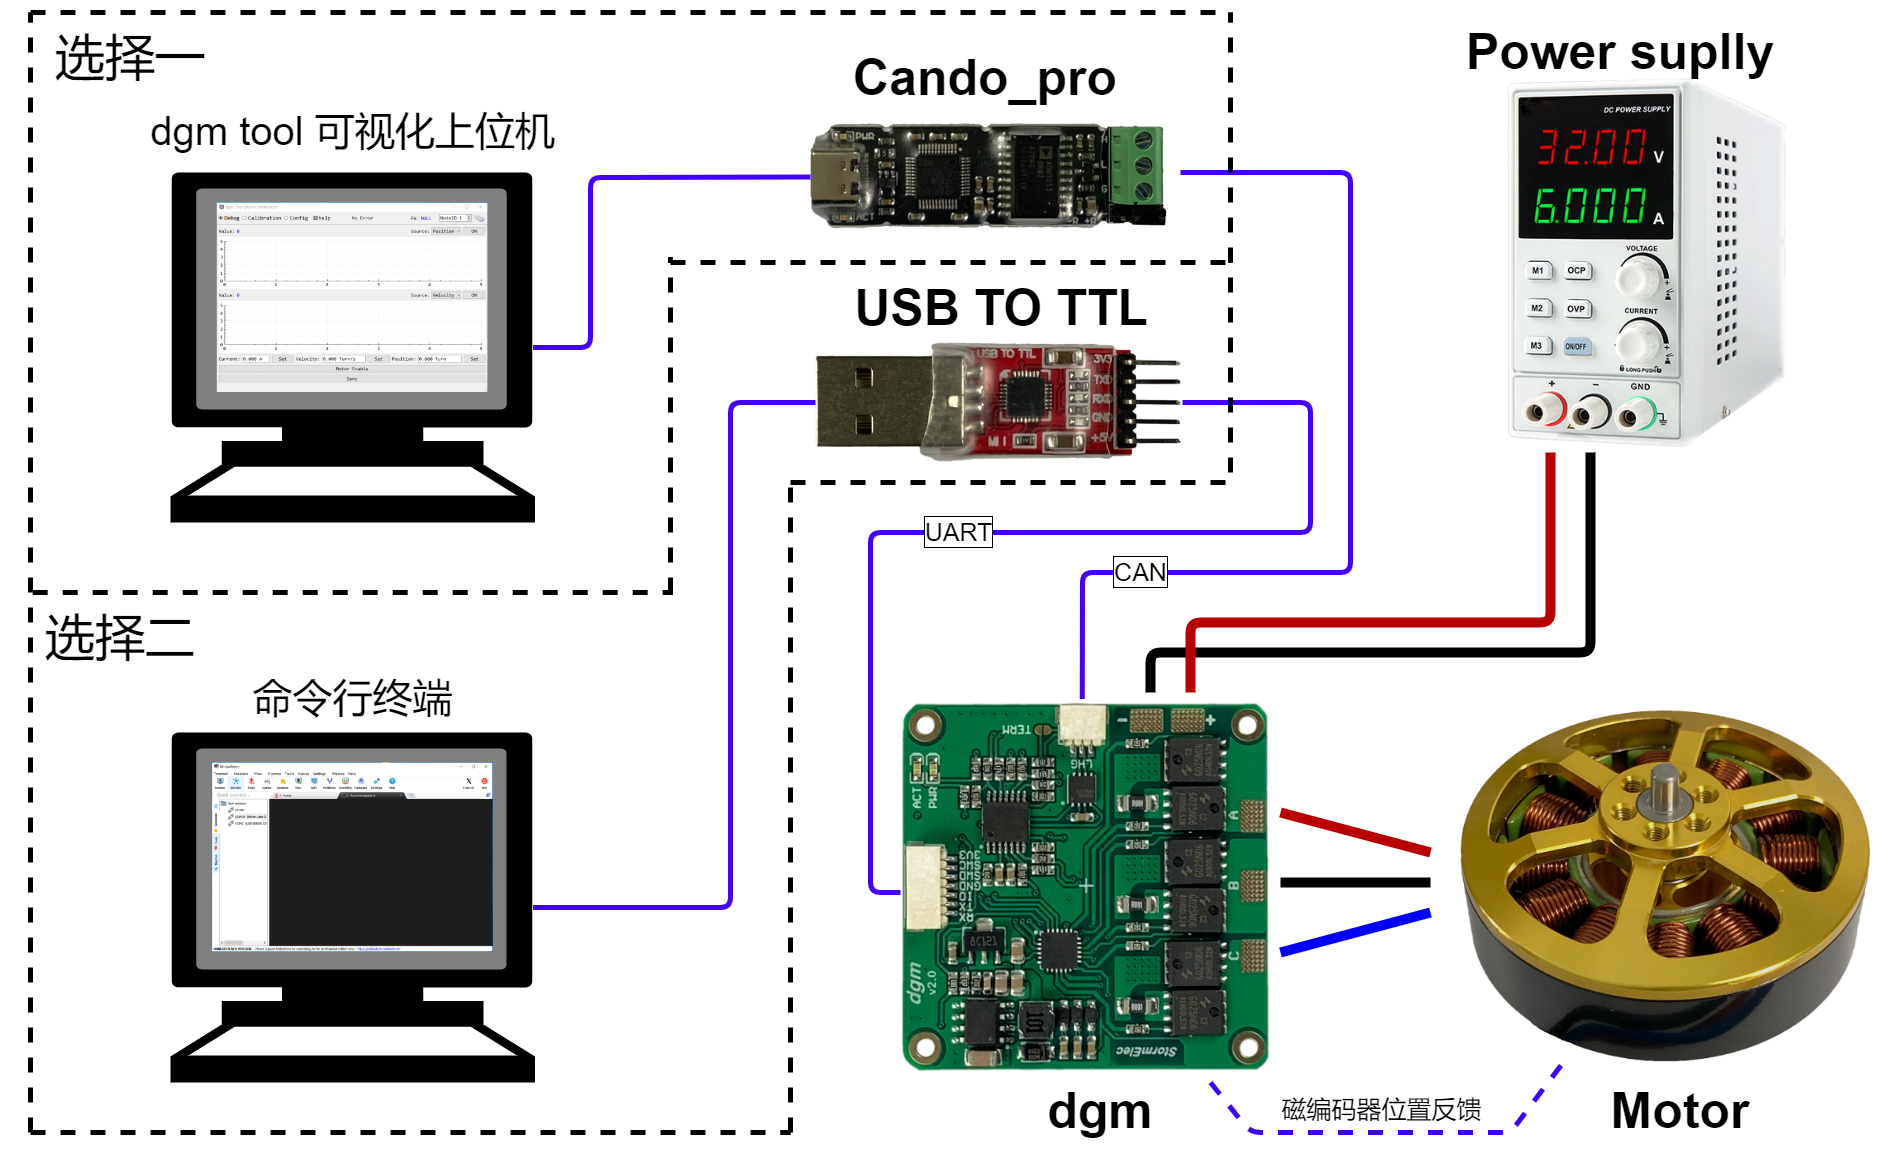
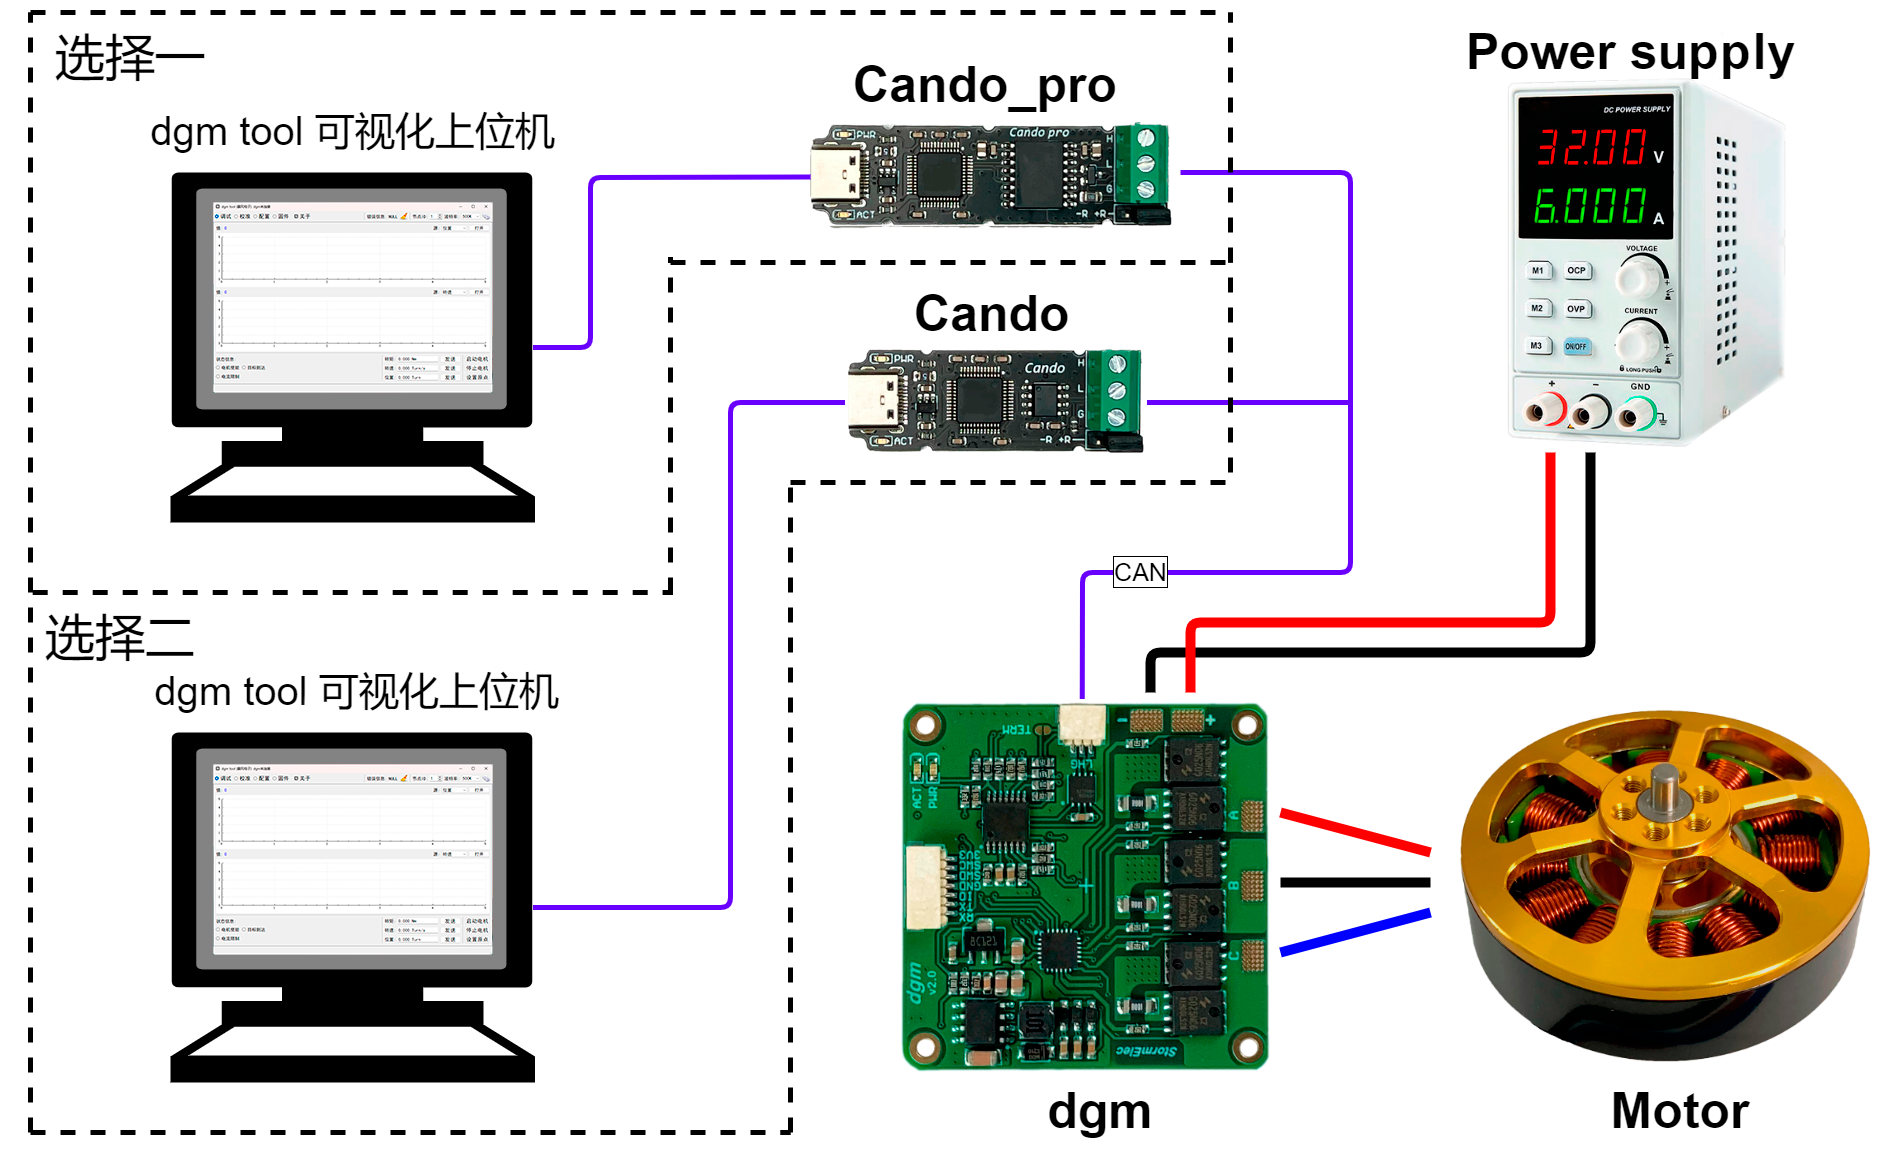
update readme.md

diff --git a/README.md b/README.md
@@ -1,11 +1,26 @@
-# dgm 电机驱动器简介
+
+
+# 仓库文件结构
+
+- [dgm_v1_2](https://github.com/codenocold/dgm/tree/main/dgm_v1_2)：v1.2 硬件版本相关资料(已不再更新)
+
+- [dgm_v1_3](https://github.com/codenocold/dgm/tree/main/dgm_v1_3)：v1.3 硬件版本相关资料(已不再更新)
+- [dgm_v2_0](https://github.com/codenocold/dgm/tree/main/dgm_v2_0)：v2.0 硬件版本相关资料
+  - [Firmware_app](https://github.com/codenocold/dgm/tree/main/dgm_v2_0/Firmware_app)：dgm驱动器固件源码
+  - [Firmware_boot](https://github.com/codenocold/dgm/tree/main/dgm_v2_0/Firmware_boot)：dgm驱动器boot源码
+  - [Hardware](https://github.com/codenocold/dgm/tree/main/dgm_v2_0/Hardware)：电路原理图，3D模型，尺寸图等
+  - [dgm_tool](https://github.com/codenocold/dgm/tree/main/dgm_v2_0/dgm_tool)：可视化调试软件
+- [dgm电机驱动器用户手册_版本C.pdf](https://github.com/codenocold/dgm/blob/main/dgm_v2_0/dgm电机驱动器用户手册_版本C.pdf)：用户使用手册
+
+#  dgm电机驱动器简介
+
+**作者：**codenocold@qq.com/codenocold@gmail.com
 
 **![](./img/dgm_black_3d.jpg)**
 
-**dgm 驱动器是一款高度集成、高效率、高功率密度、简单易用的无刷马达驱动器 (固件代码开源)。该驱动器包含必要的调试和数字通讯接口(UART、CAN总线)。**
+**dgm 驱动器是一款高度集成、高效率、高功率密度、简单易用的无刷马达驱动器 (固件代码开源)。**
 
 ## 主要特点
-
 - **超小的尺寸，长4 cm 宽 4 cm。**
 - **支持宽电压范围供电(12V ~ 50V)。**
 - **高达 95% 的工作效率。**
@@ -13,13 +28,13 @@
 - **采用 Cortex-M4 带硬件浮点运算器主控。**
 - **采用 SVPWM 控制方式。**
 - **高达 20 KHz 的电流、转速、位置控制频率。**
-- **基于 12bit ADC 三相电流检测，相电流测量范围 -45~+45A，满量程分辨率 22mA。**
+- **基于 12bit ADC 三相电流检测，相电流测量范围 -50~+50A，满量程分辨率 22mA。**
 - **板载一颗分辨率高达 18bit 绝对值磁编码器芯片，实现精确位置控制，无需每次上电校准电机编码器。**
 - **支持磁编码器和感应磁铁同心度偏移补偿。**
 - **支持马达齿槽转矩脉动补偿。**
 - **支持自动测量电机相关参数并根据电机参数生成电流环控制增益。**
-- **该驱动器可以使用UART或CAN总线进行配置和控制。**
-- **可以使用配套的 dgm_tool 可视化调试软件轻松配置和调试。**
+- **使用CAN总线进行配置、控制、固件升级。**
+- **可以使用配套的 dgm tool 可视化调试软件轻松配置和调试。**
 
 ## 典型应用
 
@@ -32,23 +47,23 @@
 
 ## 关键参数
 
-|   **关键参数**   | **单位** |                    **参数**                    |
-| :--------------: | :------: | :--------------------------------------------: |
-|   **输入电压**   |  **V**   |                   **12~50**                    |
-|  **持续相电流**  |  **A**   |              **30A @ 60 摄氏度**               |
-|  **峰值相电流**  |  **A**   |                 **60A @ 1 秒**                 |
-|   **PWM频率**    | **kHz**  |                     **20**                     |
-|   **待机功耗**   |  **W**   |                **0.72W @ 24V**                 |
-| **支持电机类型** |          |              **三相无刷永磁电机**              |
-|  **编码器类型**  |          | **板载在轴单圈绝对值磁编码器 (分辨率 18 bit)** |
-|   **通讯接口**   |          |               **UART、CAN总线**                |
-|   **控制模式**   |          |       **电流、转速、位置、梯形轨迹位置**       |
+|   **关键参数**   | **单位** |                       **参数**                       |
+| :--------------: | :------: | :--------------------------------------------------: |
+|   **输入电压**   |  **V**   |                      **12~50**                       |
+|  **持续相电流**  |  **A**   |                 **30A @ 60 摄氏度**                  |
+|  **峰值相电流**  |  **A**   |                    **50A @ 1 秒**                    |
+|   **PWM频率**    | **kHz**  |                        **20**                        |
+|   **待机功耗**   |  **W**   |                   **0.72W @ 24V**                    |
+| **支持电机类型** |          |                 **三相无刷永磁电机**                 |
+|  **编码器类型**  |          | **驱动板内部集成单圈绝对值磁编码器 (分辨率 18 bit)** |
+|   **通讯接口**   |          |                **CAN总线、UART、IO**                 |
+|   **控制模式**   |          |      **转矩爬升、转速爬升、位置过滤、轨迹位置**      |
 
 ***以上参数非特殊说明即表示极限参数，超过将可能造成驱动器损坏！***
 
 ## 机械尺寸
 
-![](./img/dgm_rev2_0_尺寸图.png)
+![](./img/dgm_size.png)
 
 **3D step 模型下载地址如下：**
 [https://github.com/codenocold/dgm/blob/main/dgm_v2_0/Hardware/dgm_rev2_0_3D.step](https://github.com/codenocold/dgm/blob/main/dgm_v2_0/Hardware/dgm_rev2_0_3D.step)
@@ -74,13 +89,9 @@
 | **6**    | **SWCLK**      |
 | **7**    | **3.3V**       |
 
-### T1 CAN终端电阻选择端
-
-**默认为断开状态，即不启用板载CAN总线120Ω电阻，如果需要启用CAN终端电阻使用焊锡短路此处即可。**
-
 ### J2 CAN总线
 
-**SH1.0 3P 卧贴耐高温端子。**
+**SH1.0 3P 卧贴耐高温端子**
 
 | **引脚** | **功能**       |
 | -------- | -------------- |
@@ -88,9 +99,13 @@
 | **2**    | **CAN H**      |
 | **3**    | **CAN L**      |
 
+### T1 CAN终端电阻选择端
+
+**默认为断开状态，即不启用板载CAN总线120Ω电阻，如果需要启用CAN终端电阻使用焊锡短路此处即可**
+
 ### P1 电源
 
-**长 18mm 宽 6.6mm 镀金焊盘(双面)，相邻焊盘中心间距  4.57mm**
+**长 3.5mm 宽 2.5mm 镀金焊盘(双面)，相邻焊盘中心间距 4.57mm**
 
 | **引脚** | **功能**                   |
 | -------- | -------------------------- |
@@ -101,7 +116,7 @@
 
 ### P2 电机
 
-**长 18mm 宽 6.6mm 镀金焊盘(双面)，相邻焊盘中心间距  7.75mm**
+**长 3.5mm 宽 2.5mm 镀金焊盘(双面)，相邻焊盘中心间距 7.75mm**
 
 | **引脚** | **功能**      |
 | -------- | ------------- |
@@ -113,44 +128,17 @@
 
 ## 安装径向磁铁和dgm驱动板
 
-![](./img/8.jpg)
+### 安装示意
 
-**如上图所示**
+![](./img/dgm_install.jpg)
 
-1. 使用强力胶或转接座将径向磁铁固定在电机旋转轴末端上。虽然dgm驱动器会在校准过程中进行轴心偏移补偿，但为了更好的精度请尽量使径向磁铁轴心和电机轴轴心同心。
-2. 将dgm驱动板固定到电机定子或者壳体上，使dgm驱动板背面的磁编码器芯片位于径向磁铁正上方，且磁编码器芯片表面距离径向磁铁表面 2mm 以内来保证磁编码器所需要的磁场强度。
+### 安装规范
 
-## 连接电机
+![](./img/mag_install.jpg)
 
-将三根电机线分别焊接到 dgm 驱动板的 P2 接线端口的 A，B，C 焊盘上，三根线不分顺序，任意焊接即可，dgm驱动器会在校准过程中自动匹配。
+### 安装效果
 
-***提示：如果想要改变电机指令旋转方向和实际旋转方向可以任意对调其中两根线即。***
-
-## 连接电脑
-
-根据需要准备 **USB转串口模块** 或者 **USB转CAN模块** (目前仅支持 [Cando](https://item.taobao.com/item.htm?spm=a230r.1.14.6.458c30e3ims9dC&id=592036191992&ns=1&abbucket=13#detail) 或者 [Cando_pro](https://item.taobao.com/item.htm?spm=a230r.1.14.1.458c30e3ims9dC&id=610739408298&ns=1&abbucket=13#detail) 模块)，连接 dgm 驱动器和电脑。
-
-### 选择一 使用 USB转CAN模块
-
-| **USB转CAN模块** | **dgm驱动板** |
-| ---------------- | ------------- |
-| GND              | J2-1    GND   |
-| CAN H            | J2-2    CAN H |
-| CAN L            | J2-3    CAN L |
-
-### 选择二 使用 USB转串口模块
-
-| **USB转串口模块** | **dgm驱动板** |
-| ----------------- | ------------- |
-| RX                | J1-2    TX    |
-| TX                | J1-1    RX    |
-| GND               | J1-4    GND   |
-
-## 连接供电电源
-
-- 调试阶段供电电源建议使用可调稳压电源，调试完毕后更换为电池或开关电源。
-
-将红色源线焊接到 dgm 驱动板 P1 接线端口标有 **+** 的焊盘上，将黑色电源线焊接到dgm驱动板 P1 接线端口标有 **-** 的焊盘上。然后将黑色线接电源负极，红色线接电源正极。**注意：进行接线操作时保持电源处于断电状态！**
+![](./img/install_demo.jpg)
 
 ## 硬件准备完成示意图
 
@@ -158,17 +146,39 @@
 
 ## 安全上电
 
-- 安全的开启电源，如果使用的鳄鱼夹手动连接电源线会产生小火花，这是由于电容充电导致，属于正常现象。**注意：建议上电前再次确认正负极是否连接正确，以免接反导致 dgm 驱动板损坏！**
+- 安全的开启电源，如果使用的鳄鱼夹手动连接电源线会产生小火花，这是由于电容充电导致，属于正常现象。
+
+  ***注意：建议上电前再次确认正负极是否连接正确，以免接反导致 dgm 驱动板损坏！***
+
 - 接通电源后 dgm 驱动板上的 PWR 绿色指示灯将保持常亮，ACT 蓝色指示灯开始闪烁，ACT 蓝色指示灯通过不同的闪烁频率来指示当前驱动器工作状态。
 
-# 使用 dgm Tool 调试
+# dgm tool 调试软件
 
-![](./img/dgm_tool_1.jpg)
+**dgm tool 是专门为 dgm 驱动器开发的一款简单易用的可视化上位机调试软件，目前仅支持通过 [Cando](https://item.taobao.com/item.htm?spm=a230r.1.14.6.458c30e3ims9dC&id=592036191992&ns=1&abbucket=13#detail) 或 [Cando_pro](https://item.taobao.com/item.htm?spm=a230r.1.14.1.458c30e3ims9dC&id=610739408298&ns=1&abbucket=13#detail) 模块连接电脑使用。**
 
-![](./img/dgm_tool_3.jpg)
+**dgm tool 适用于 Windows8 及以上64位版本操作系统，双击 dgm_tool 文件夹下的 dgm_tool-ch-x64-XXX.exe(中文版) 或 dgm_tool-en-x64-XXX.exe(英文版) 运行即可。**
 
-![](./img/dgm_tool_4.jpg)
+## dgm tool 界面预览
+
+### 调试界面
+![](./img/dgm_tool_debug.png)
+![](./img/dgm_tool_debug_en.png)
+
+### 校准界面
+![](./img/dgm_tool_calib.png)
+![](./img/dgm_tool_calib_en.png)
+
+### 配置界面
+![](./img/dgm_tool_config.png)
+![](./img/dgm_tool_config_en.png)
+
+### 固件界面
+![](./img/dgm_tool_dfu.png)
+![](./img/dgm_tool_dfu_en.png)
 
 # dgm 驱动板购买链接
 
 - **暴风电子@taobao：**[购买链接](https://item.taobao.com/item.htm?ft=t&id=645970525370)
+
+
+
